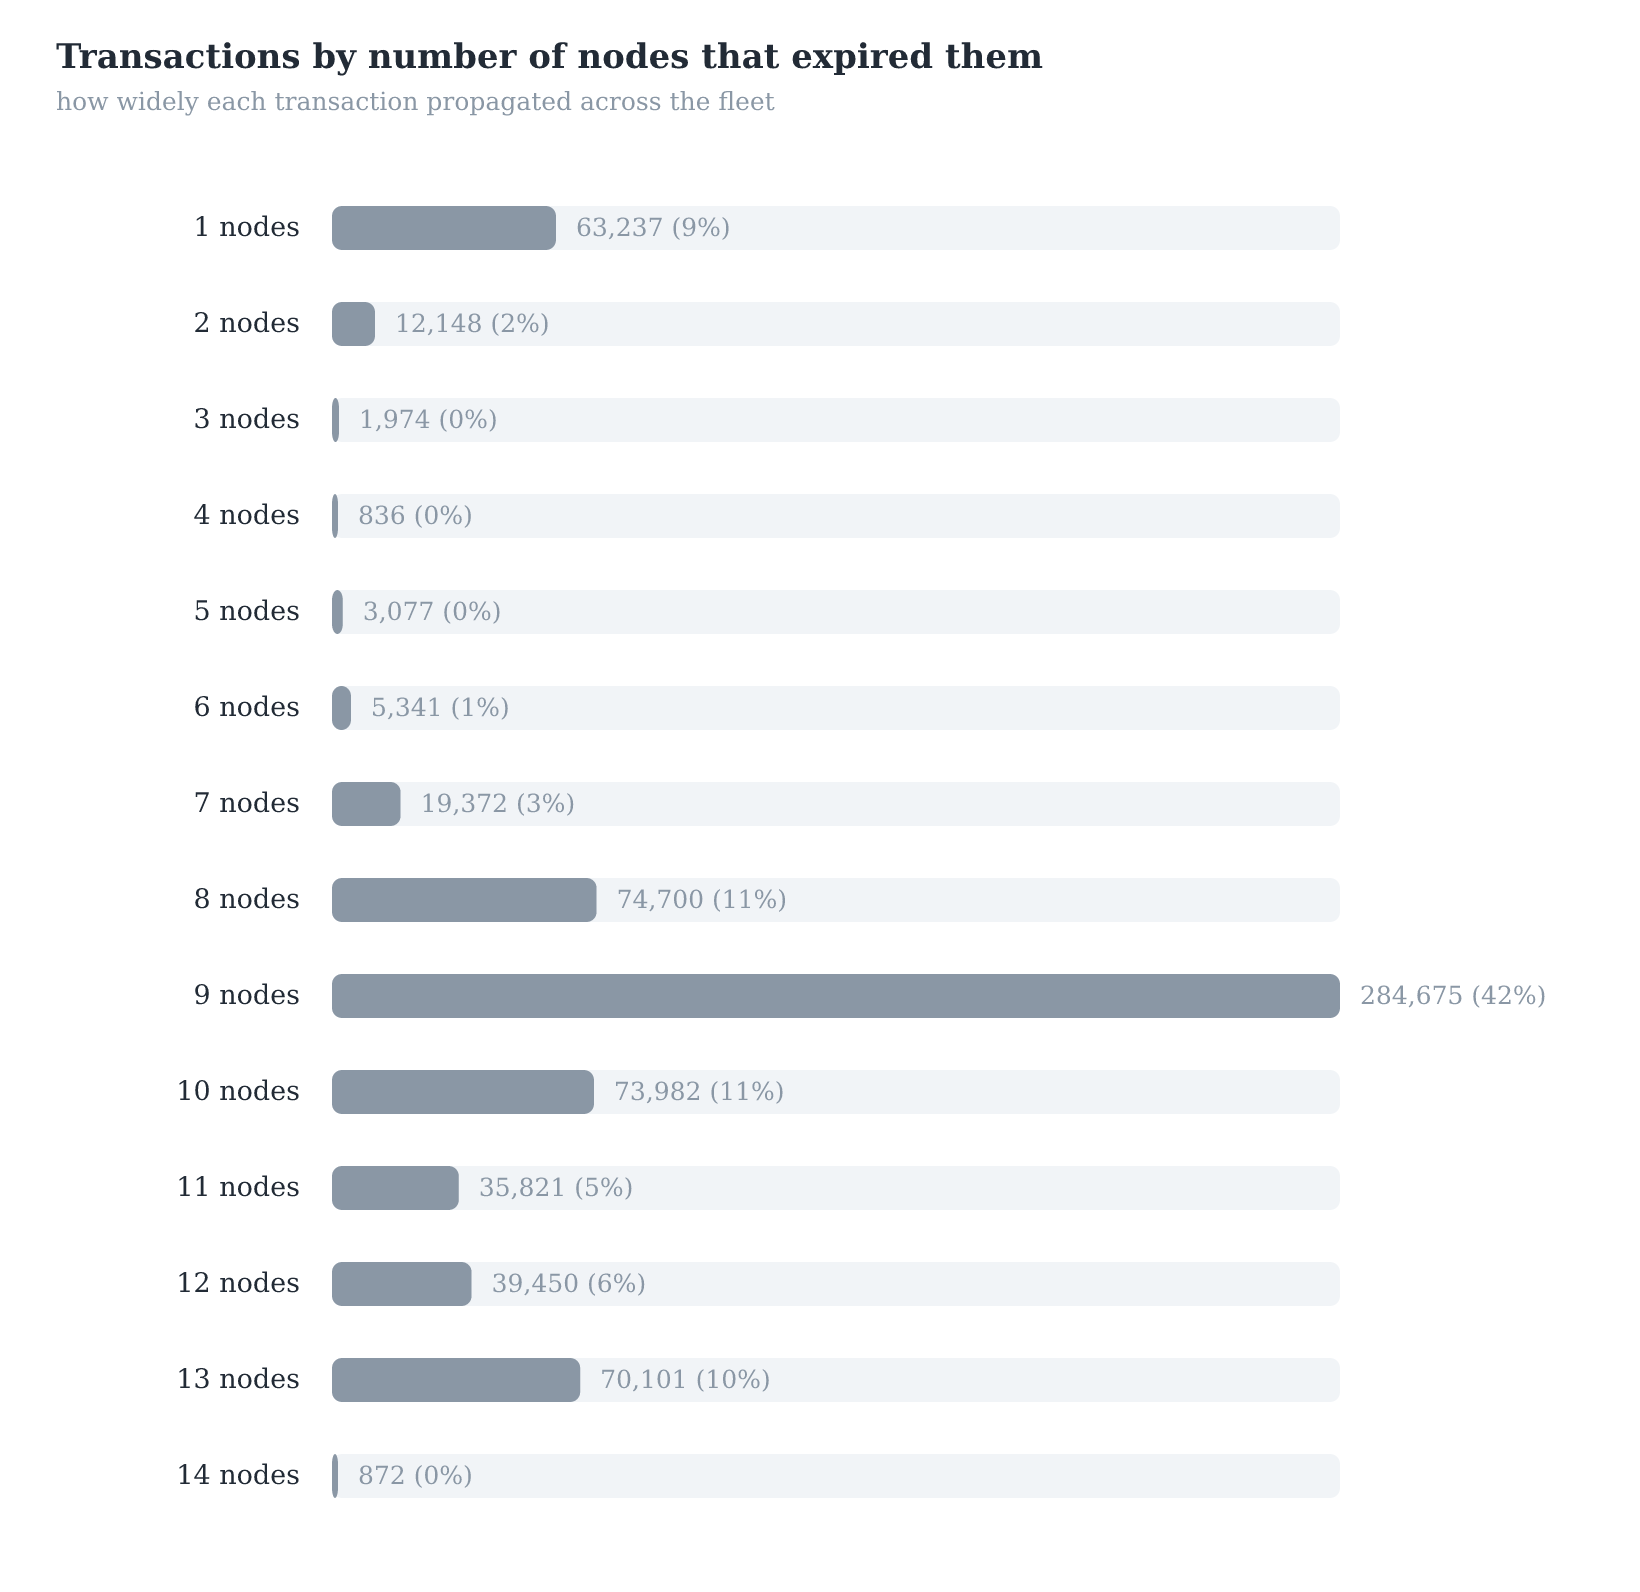
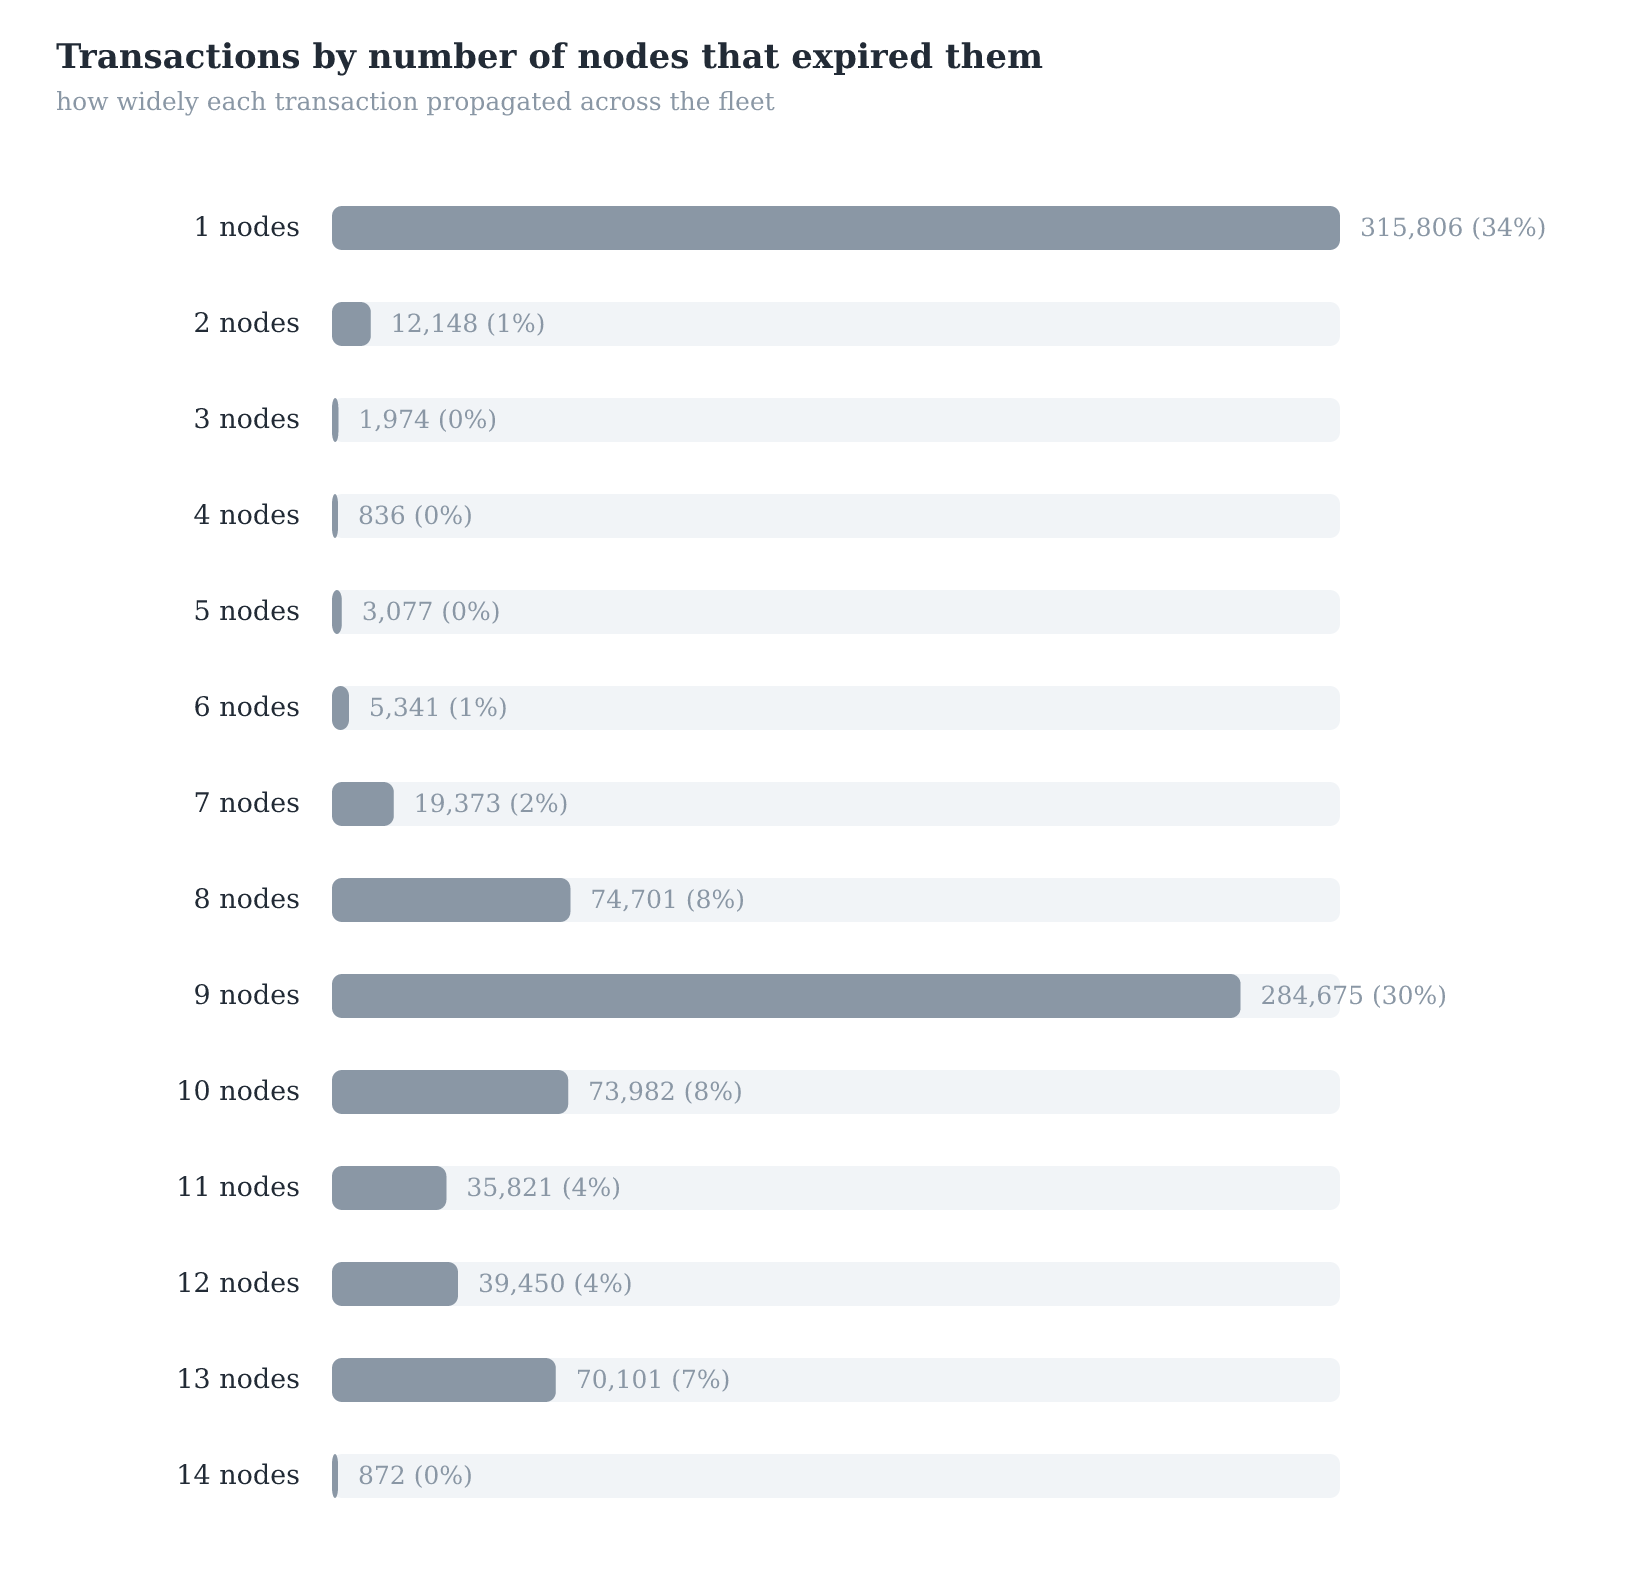
Restore full set; keep nico as genuine expiries (undo exclusion)

diff --git a/make_report.py b/make_report.py
@@ -128,9 +128,8 @@ for d in delays:
     elif d < 30*D: dbkt["7-30d"] += 1
     elif d < 90*D: dbkt["30-90d"] += 1
     else: dbkt[">90d"] += 1
-hbar("fig_delay.svg", "Time from first expiry to confirmation",
-     [(k, v) for k, v in dbkt.items() if v > 0], GREEN,
-     note="time from first expiry to the confirming block")
+hbar("fig_delay.svg", "Time from first expiry to confirmation", list(dbkt.items()), GREEN,
+     note="'before expiry' = tx already mined on-chain before a lagging node expired it")
 
 # 4. n_nodes histogram
 nn = c.execute("SELECT n_nodes, COUNT(*) FROM tx GROUP BY n_nodes ORDER BY n_nodes").fetchall()
@@ -184,16 +183,16 @@ many = c.execute("SELECT 100.0*SUM(CASE WHEN c.txid IS NOT NULL THEN 1 ELSE 0 EN
 report = f"""# Expired mempool transaction fate
 
 Data: `expiry.log.zst`, a `reason=expiry`-only extract from b10c's 15-node fleet. Window {d0} to {d1}:
-{nev:,} events, {total:,} unique genuine-expiry txids. (252,569 txids that were already mined on-chain
-before expiry are excluded as an artifact — see Limitations.) Method: block scan of an unpruned node,
-txid intersection, verified with `getrawtransaction`. Method spec: [EXPIRY_SCAN_SPEC.md](../EXPIRY_SCAN_SPEC.md).
+{nev:,} events, {total:,} unique txids. Method: block scan of an unpruned node, txid intersection,
+verified with `getrawtransaction`. Method spec: [EXPIRY_SCAN_SPEC.md](../EXPIRY_SCAN_SPEC.md).
 
 | metric | value |
 | --- | --- |
 | confirmed | {nconf:,} ({100*nconf/total:.1f}%) |
 | never confirmed | {nnot:,} ({100*nnot/total:.1f}%) |
 | rebroadcast (lower bound) | {rb:,} ({100*rb/total:.1f}%), {100*rbc/max(rb,1):.1f}% of them confirmed |
-| confirm delay | p50 {pct(dfirst,50)/86400:.1f}d, p90 {pct(dfirst,90)/86400:.1f}d, max {max(dfirst)/86400:.0f}d |
+| mined before first expiry (lagging-node eviction) | {before:,} ({100*before/nconf:.0f}% of confirmed) |
+| confirm delay, mined after expiry | p50 {pct(dfirst,50)/86400:.1f}d, p90 {pct(dfirst,90)/86400:.1f}d, max {max(dfirst)/86400:.0f}d |
 | cross-node spread (2+ nodes) | p50 27s, {100*tight/max(nspread,1):.0f}% within 60s, 24% over 14d |
 | confirm rate, 1 node vs many | {one:.1f}% vs {many:.1f}% |
 
@@ -208,9 +207,9 @@ txid intersection, verified with `getrawtransaction`. Method spec: [EXPIRY_SCAN_
 - Rebroadcast is a lower bound; the true rate needs the `AddedToMempool` stream.
 - Replaced-vs-lost is not separable: an expired transaction is already evicted, so it is never logged
   as replaced; splitting it would need the expired transactions' inputs, which the logs do not carry.
-- 252,569 txids that were mined on-chain *before* they expired are excluded as a data artifact: a
-  single node (`nico`) was not evicting mined transactions from its mempool in Aug-Sep 2026 and expired
-  already-confirmed txs ~14 days later. Flagged to b10c. All figures here are the genuine-expiry set.
+- About 29% of confirmed txids were mined *before* their first expiry: a single lagging node expired a
+  tx that was already on-chain. They are reported separately; the "mined after expiry" delay excludes
+  them.
 - Coverage is not continuous: ~37% of calendar days in the window have no events in the extract
   (collection gaps, including a ~130-day gap in mid-2025), which limits temporal/continuity analysis.
 - The extract was also built without `grep -a`, dropping ~12 days.

diff --git a/README.md b/README.md
@@ -1,6 +1,6 @@
 # mempool-expiry
 
-Headline: 89.1% of expired transactions were later mined (610,883/685,586).
+Headline: 92.0% of expired transactions were later mined (863,454/938,157).
 
 - [Report and charts](results/REPORT.md)
 - [Method spec](EXPIRY_SCAN_SPEC.md)
